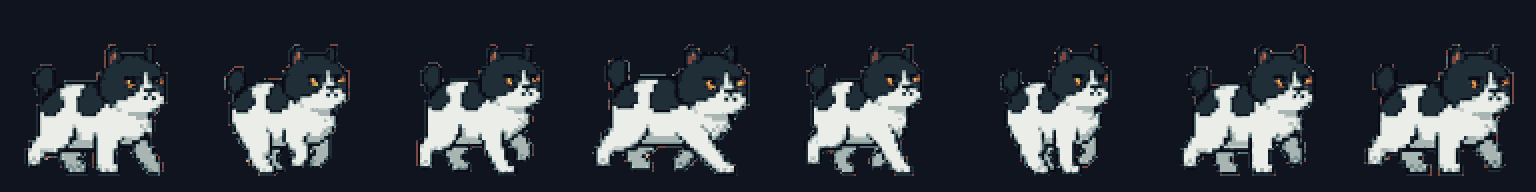
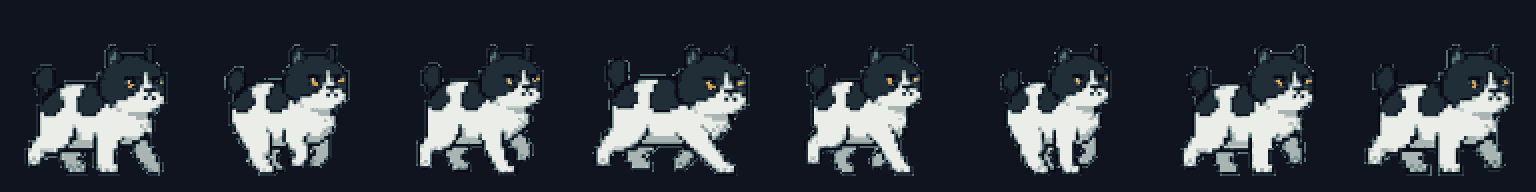
feat(walk): accept walk v1; lock quantiser to character palette (no fringe, no red ears)

diff --git a/tools/auto_cut.py b/tools/auto_cut.py
@@ -22,12 +22,22 @@ CELL, FOOT, MAX_W, MAX_H = 96, 8, 87, 66
 
 DARK = [(9, 10, 20), (16, 20, 31), (21, 29, 40), (32, 46, 55)]   # Apollo neutrals only
 
+# The cat is black-and-white (or grey-and-white) with an amber eye. Restricting the
+# quantiser to that subset stops anti-aliased edges snapping to Apollo's browns/reds,
+# which is what put an orange fringe around every sprite.
+CHARACTER = [
+    (9, 10, 20), (16, 20, 31), (21, 29, 40), (32, 46, 55),      # blacks
+    (57, 74, 80), (87, 114, 119), (129, 151, 150),               # greys
+    (168, 181, 178), (199, 207, 204), (235, 237, 233),           # whites
+    (232, 193, 112), (222, 158, 65),                             # amber eye / inner ear
+]
+
 
 def nearest(p):
     """Snap to Apollo, but keep edge pixels neutral: nearest-colour on a dark
     anti-aliased edge otherwise lands on Apollo's dark red and fringes the sprite."""
     lum = 0.2126 * p[0] + 0.7152 * p[1] + 0.0722 * p[2]
-    pool = DARK if lum < 70 else APOLLO
+    pool = DARK if lum < 70 else CHARACTER
     return min(pool, key=lambda a: (p[0] - a[0]) ** 2 + (p[1] - a[1]) ** 2 + (p[2] - a[2]) ** 2)
 
 
@@ -77,15 +87,18 @@ def row_bands(im, rows):
     return [(edges[i], edges[i + 1]) for i in range(len(edges) - 1)]
 
 
-def cells_in_band(im, y0, y1, n, merge_gap=3):
-    """Segment a band into sprites: zero-gap column runs, then merge tiny gaps
-    (a detached tail), then keep the n widest if the model added debris."""
+def cells_in_band(im, y0, y1, n, max_merge=24):
+    """Segment a band into exactly n sprites.
+
+    Start from zero-gap column runs, then close the smallest gaps first until the count
+    matches n — that keeps detached tails attached without swallowing a neighbouring cat.
+    """
     a = np.asarray(im)[:, :, 3] > 0
     band = a[y0:y1]
     cols = band.any(axis=0)
     W = len(cols)
 
-    raw, x = [], 0
+    runs, x = [], 0
     while x < W:
         if not cols[x]:
             x += 1
@@ -93,21 +106,23 @@ def cells_in_band(im, y0, y1, n, merge_gap=3):
         x0 = x
         while x < W and cols[x]:
             x += 1
-        raw.append([x0, x])
+        runs.append([x0, x])
 
-    merged = []
-    for r in raw:
-        if merged and r[0] - merged[-1][1] <= merge_gap:
-            merged[-1][1] = r[1]
-        else:
-            merged.append(r)
+    while len(runs) > n:
+        gaps = [(runs[i + 1][0] - runs[i][1], i) for i in range(len(runs) - 1)]
+        gaps = [g for g in gaps if g[0] <= max_merge]
+        if not gaps:
+            break
+        _, i = min(gaps)
+        runs[i][1] = runs[i + 1][1]
+        del runs[i + 1]
 
-    if len(merged) != n:
-        merged = sorted(merged, key=lambda r: r[1] - r[0], reverse=True)[:n]
-        merged.sort()
+    if len(runs) > n:
+        runs = sorted(runs, key=lambda r: r[1] - r[0], reverse=True)[:n]
+        runs.sort()
 
     out = []
-    for (sx0, sx1) in merged:
+    for (sx0, sx1) in runs:
         sub = band[:, sx0:sx1]
         ys = np.where(sub.any(axis=1))[0]
         if len(ys) == 0:

diff --git a/CHECKLIST.md b/CHECKLIST.md
@@ -24,7 +24,7 @@ Status as of 2026-11-10. ✅ done · 🟡 partial · ⬜ not started · ❓ deci
 |---|---|---|
 | 🟡 | Tuxedo reference frame | cropped → `spec/ref-tuxedo.png` |
 | 🟡 | Tuxedo sheet (first attempt) | exists but 6-frame rows, motion blur, drawn rules, weak swipe |
-| ⬜ | Tuxedo **walk** — 8 frames, leg script | regenerate |
+| ✅ | Tuxedo **walk** — 8 frames, upright | `out/walk-v1-atlas.png` (accepted) |
 | ✅ | Tuxedo **run** — 8 frames, fast trot | `out/run-v3-atlas.png` (v3 accepted) |
 | ⬜ | Tuxedo **jump** — 4 frames | regenerate (drop the arc line) |
 | ⬜ | Tuxedo **swipe** — 4 frames | regenerate (no slash streaks, no tongue) |
